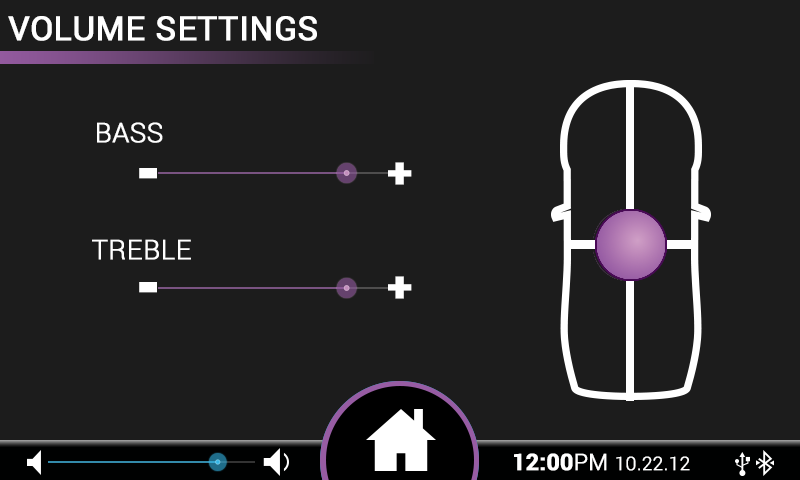
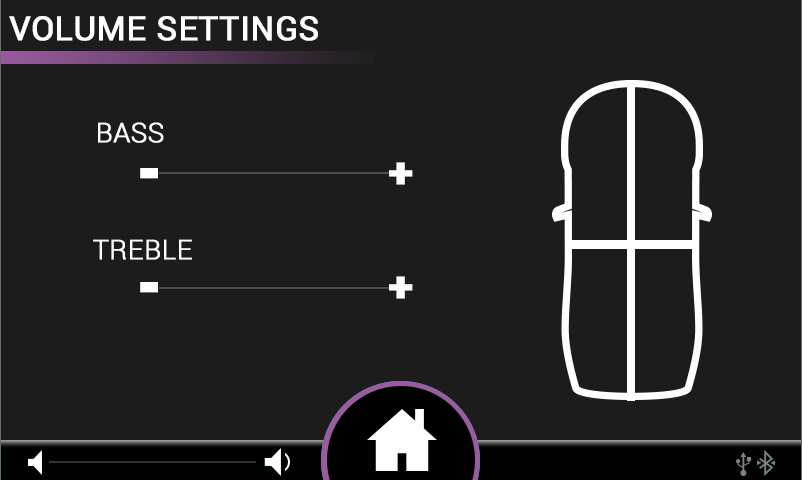
Update volume setting background pic

diff --git a/qml/UI_v2/VolSetting.qml b/qml/UI_v2/VolSetting.qml
@@ -138,8 +138,10 @@ Image{
                 source: "UIPictures/Buttons/Volume Setting Buttons/bass_treble.png"
                 MouseArea {
                     id: rectMouse
-                    width: 30
-                    height: 30
+                    x: -11
+                    y: -12
+                    width: 41
+                    height: 42
                     //anchors.fill: parent
                     drag.target: rect
                     drag.axis: Drag.XAxis
@@ -178,8 +180,10 @@ Image{
                 source: "UIPictures/Buttons/Volume Setting Buttons/bass_treble.png"
                 MouseArea {
                     id: rectMouse2
-                    width: 30
-                    height: 30
+                    x: -10
+                    y: -10
+                    width: 40
+                    height: 40
                     //anchors.fill: parent
                     drag.target: rect3
                     drag.axis: Drag.XAxis
